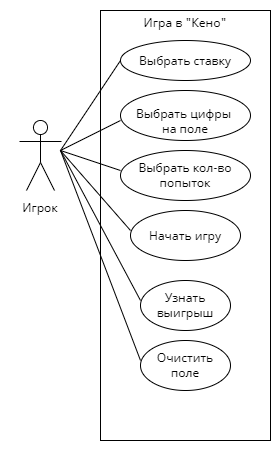
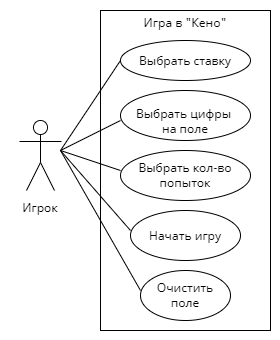
add lab4

diff --git a/labs/lab4.md b/labs/lab4.md
@@ -1,0 +1,113 @@
+# Создание диаграмм взаимодействия
+
+## Прецендент "Выбор ставки":
+
+![Выбор ставки](images/lab4/сделать%20ставку.png)
+
+|| Bet(n) |
+|---|---|
+| Ссылки | Прецендент: Выбор ставки |
+| Предусловия | Наличие у игрока денег для минимальной ставки |
+| Постусловия | Ставка должна входить в установленные рамки |
+
+|| Bank |
+|---|---|
+| Ссылки | Прецендент: Выбор ставки |
+| Предусловия | У игрока есть "банк" |
+| Постусловия | Получена информация о "банке" игрока |
+
+## Прецендент "Выбор чисел на поле":
+
+![Выбор чисел на поле](images/lab4/выбрать%20спот.png)
+
+|| ChooseSpot(val) |
+|---|---|
+| Ссылки | Прецендент: Выбор чисел на поле |
+| Предусловия | Число не выбрано |
+| | Банка игрока достаточно |
+| | Количество выбранных чисел меньше 15 |
+| Постусловия | Число выбрано |
+
+|| IsValidSpot(val) |
+|---|---|
+| Ссылки | Прецендент: Выбор чисел на поле |
+| Предусловия | Выбрано число на поле |
+| Постусловия | Информация о возможности выбора этого числа |
+
+|| Remove(val) |
+|---|---|
+| Ссылки | Прецендент: Выбор чисел на поле |
+| Предусловия | Выбрано уже отмеченное число на поле |
+| Постусловия | Число не выбрано |
+
+|| Add(val) |
+|---|---|
+| Ссылки | Прецендент: Выбор чисел на поле |
+| Предусловия | Число возможно выбрать |
+| Постусловия | Число выбрано |
+
+
+## Прецендент "Выбор количества попыток":
+
+![Выбор количества попыток](images/lab4/выбрать%20кол-во%20попыток.png)
+
+|| Attempts(n) |
+|---|---|
+| Ссылки | Прецендент: Выбор количества попыток |
+| Предусловия | Выбраны споты |
+| | Банка игрока достаточно |
+| Постусловия | Выбрано количество попыток |
+
+|| Bank |
+|---|---|
+| Ссылки | Прецендент: Выбор ставки |
+| Предусловия | У игрока есть "банк" |
+| Постусловия | Получена информация о "банке" игрока |
+
+
+## Прецендент "Начало игры":
+
+![Начало игры](images/lab4/начать%20игру.png)
+
+|| Start() |
+|---|---|
+| Ссылки | Прецендент: Начало игры |
+| Предусловия | Выбраны споты |
+| | Выбрана ставка |
+| | Выбрано количество попыток |
+| Постусловия | Игра началась |
+
+|| DecreaseBank(Bet * Attempts * SelectedSpots.Count) |
+|---|---|
+| Ссылки | Прецендент: Начало игры |
+| Предусловия | Игра началась |
+| Постусловия | Банк игрока уменьшился на сумму ставки |
+
+|| GenerateWinningSpots() |
+|---|---|
+| Ссылки | Прецендент: Начало игры |
+| Предусловия | Игра началась |
+| Постусловия | Победный набор зафиксирован для игры |
+
+|| CalculateWinning() |
+|---|---|
+| Ссылки | Прецендент: Начало игры |
+| Предусловия | Есть совпадения между выбором игрока и победным набором |
+| Постусловия | Выигрыш зафиксирован для игры |
+
+|| IncreaseBank(CalculateWinning) |
+|---|---|
+| Ссылки | Прецендент: Начало игры |
+| Предусловия | Выигрыш зафиксирован для попытки |
+| Постусловия | Банк игрока увеличился на выигрыш |
+
+
+## Прецендент "Очистить поле":
+
+![Очистить поле](images/lab4/очистить%20поле.png)
+
+|| Clear() |
+|---|---|
+| Ссылки | Прецендент: Очистить поле |
+| Предусловия | Выбранный набор для игры сброшен |
+| Постусловия | Поле очищено |

diff --git a/labs/lab1.md b/labs/lab1.md
@@ -131,27 +131,3 @@
 | Действия актора | Реакция системы |
 |---|---|
 | Нажатие кнопки "Начать игру" | Сообщает игроку о необходимости выбрать "споты" |
-
-## Прецендент "Узнать выигрыш"
-
-| | Посчитать выигрыш |
-|---|---|
-| Название | Узнать выигрыш |
-| Описание | Игрок узнает выигрыш в случае победы |
-| Основной исполнитель | Игрок |
-| Предусловия | Разыгранные номера совпадают с выбранными пользователем "спотами" |
-| Постусловия | "Банк" игрока увеличился на выигрыш |
-
-**Основной сценарий:**
-
-| Действия актора | Реакция системы |
-|---|---|
-| Узнать выигрыш | Вывести выигрыш игрока на экран |
-| | Зачислить выигрыш на "банк" игрока |
-
-**Альтернативы:**
-
-| Действия актора | Реакция системы |
-|---|---|
-| Узнать выигрыш | Вывести выигрыш игрока на экран |
-| | "Банк" игрока не изменяется |

diff --git a/labs/lab3.md b/labs/lab3.md
@@ -136,22 +136,6 @@
 | Предусловия | Выигрыш зафиксирован для игры |
 | Постусловия | Банк игрока увеличился на выигрыш |
 
-## Прецендент "Узнать выигрыш":
-
-![Узнать выигрыш](images/lab3/узнать%20выигрыш.png)
-
-|| Узнать выигрыш |
-|---|---|
-| Ссылки | Прецендент: Узнать выигрыш |
-| Предусловия |  |
-| Постусловия | Запрос на банк игрока |
-
-|| Отобразить банк игрока |
-|---|---|
-| Ссылки | Прецендент: Узнать выигрыш |
-| Предусловия | Запрос на банк игрока |
-| Постусловия | Отобразится банк игрока |
-
 ## Прецендент "Очистить поле":
 
 ![Очистить поле](images/lab3/очистить%20поле.png)
